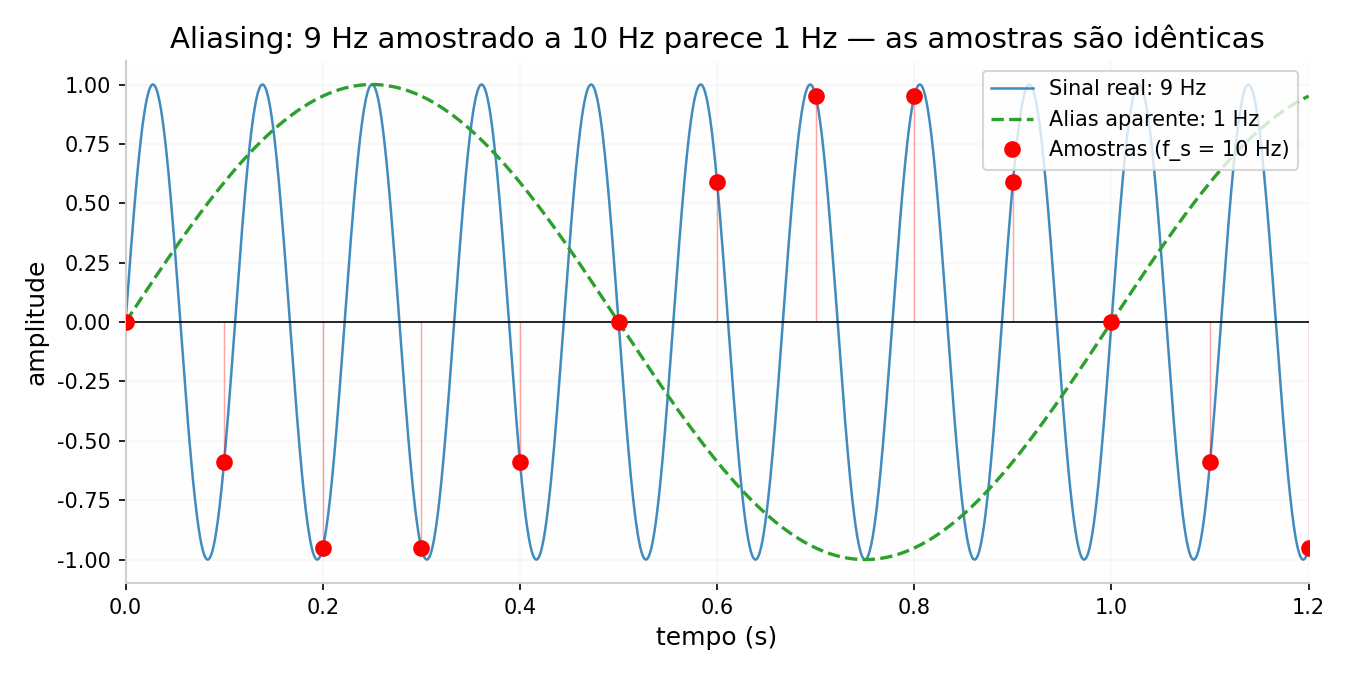
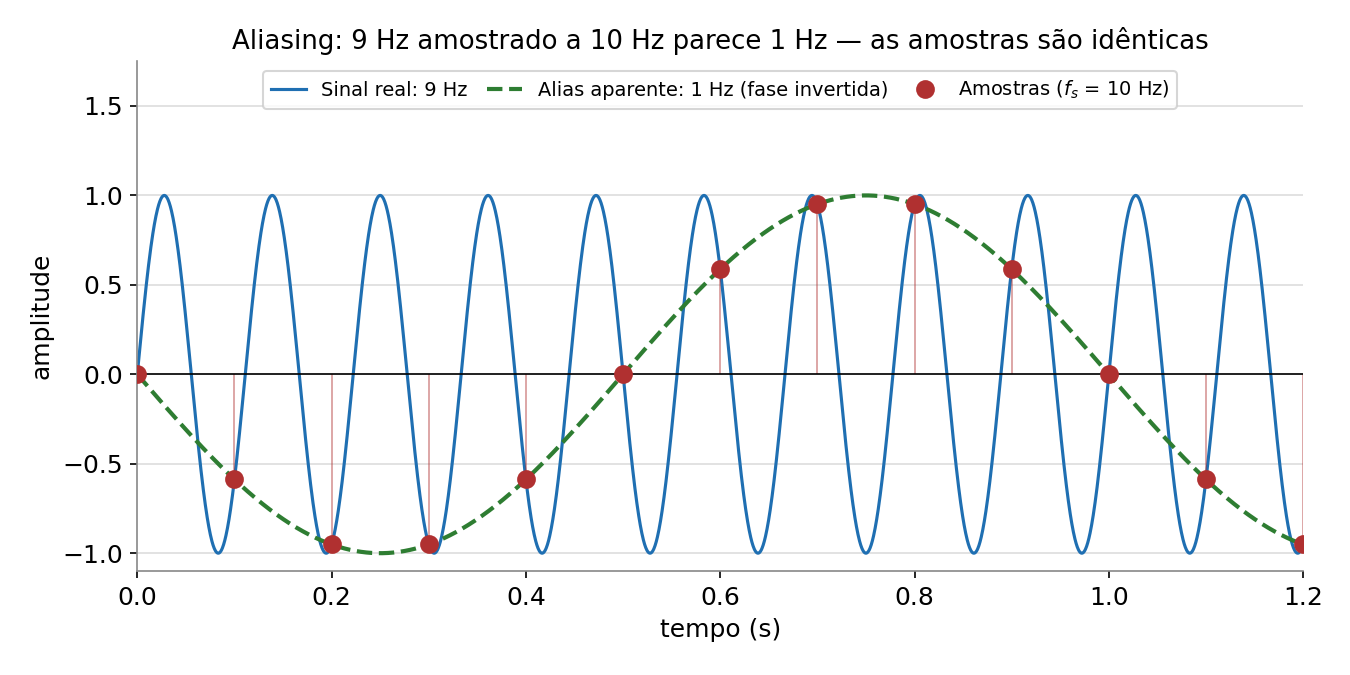
Update from https://github.com/fabiobento/sis-emb-2026-2-privado/commit/058eab5a88663f317a299e5331d251b6e1978caa

Changed region(s): [[0.0, 0.0311, 0.9956, 0.9644], [0.9333, 0.0933, 0.9644, 0.1244]]

diff --git a/semana-07/teoria-07.md b/semana-07/teoria-07.md
@@ -166,7 +166,7 @@ semicondutor da superfície serpentada — fotóns liberam portadores de carga.
 
 ![Fotografia de um LDR e seus símbolos esquemáticos](https://raw.githubusercontent.com/fabiobento/sis-emb-2026-2/main/assets/figuras/ldr_componente.png)
 
-*Figura 7-D — O LDR: componente físico e símbolos. Fonte: Practical Python Programming for
+*Figura 7-F — O LDR: componente físico e símbolos. Fonte: Practical Python Programming for
 IoT (Packt), cap. 9, Fig. 9.4.*
 
 **Exemplo resolvido 7.2 (LDR + divisor)** — LDR varia de 8 kΩ (claro) a 120 kΩ (escuro), em
@@ -192,39 +192,185 @@ lugar — e a semana 13 precisará saber qual é a sua convenção antes de fech
 
 ## 3. Amostragem: o teorema que não perdoa
 
-O ADC não enxerga o sinal contínuo: tira **fotografias** a cada ${T_s}$ segundos (taxa
-$f_s = \frac{1}{T_s}$). O **teorema de Nyquist–Shannon** diz o preço da discrição:
+Até aqui falamos de **quanto** o ADC mede (resolução: eixo vertical). Agora falamos de
+**quando** ele mede (taxa: eixo horizontal). As duas decisões são independentes — e o erro
+em qualquer uma delas é irreversível.
 
-> Para representar fielmente um sinal com componentes até $f_{max}$, é preciso amostrar a **$f_s > 2·f_{max}$**.
+### 3.1 O que é amostrar
 
-Violou? O sinal rápido demais não desaparece — ele se **disfarça** de um sinal lento,
-fenômeno chamado **aliasing** (o efeito "roda de carroça girando para trás" do cinema: a
-câmera amostra a roda 24× por segundo; se ela gira quase nessa taxa, o filme a mostra
-girando devagar... para trás). A frequência do impostor: $f_{alias} = |f_s − f_{sinal}|$ (para
-$f_{sinal}$ entre $f_s/2$ e $f_s$).
+O ADC não enxerga o sinal contínuo: ele tira **fotografias** a cada $T_s$ segundos, ou seja,
+com **taxa de amostragem** $f_s = \frac{1}{T_s}$. Entre duas fotografias, o conversor não sabe
+nada sobre o sinal; o que sobra para o firmware é uma **lista de números** igualmente
+espaçados no tempo. (Por dentro, um circuito *sample-and-hold* captura a tensão no instante
+da amostra e a "segura" estável enquanto o conversor trabalha, como no SAR da seção 1.1.)
+
+![Em cima, sinal contínuo com as amostras marcadas a cada Ts. Embaixo, a sequência de números resultante, vista como degraus segurados entre as amostras](https://raw.githubusercontent.com/fabiobento/sis-emb-2026-2/main/assets/figuras/amostragem_sample_hold.png)
+
+*Figura 7-G — Amostragem em duas etapas. Em cima: o mundo real é contínuo, mas o ADC só olha
+nos instantes marcados (a cada $T_s$ = 40 ms, ou $f_s$ = 25 Hz). Embaixo: o que o firmware
+recebe é uma sequência de números; o que acontece **entre** as amostras é informação que não
+chegou ao programa.*
+
+A pergunta natural é: *quão rápido preciso fotografar para não perder nada importante?*
+
+### 3.2 O teorema de Nyquist–Shannon
+
+O **teorema de Nyquist–Shannon** responde:
+
+> Para representar fielmente um sinal cujas componentes vão até $f_{max}$, é preciso amostrar a **$f_s > 2·f_{max}$**.
+
+Chamamos $f_s/2$ de **frequência de Nyquist**: é o teto do que o sistema consegue "enxergar".
+Três observações para não errar a leitura do teorema:
+
+- **$f_{max}$ é a maior frequência *presente* no sinal, não a que você quer medir.** Ruído,
+  harmônicos (uma onda quadrada tem harmônicos muito além da fundamental) e interferências
+  (rede elétrica, luz de LED) contam — se existem no pino, o ADC as amostra.
+- **A desigualdade é estrita.** Com $f_s = 2f$ exatos, tudo depende de *onde* as amostras
+  caem no ciclo: no pior caso, caem sobre os zeros e o sinal desaparece (painel de baixo à
+  esquerda da figura abaixo).
+- **"Fiel" supõe reconstrução ideal.** Com $f_s$ um pouco acima de $2f$ a informação *existe*
+  nas amostras, mas recuperá-la exige o interpolador ideal de Shannon (somas de funções
+  $\text{sinc}$), que não conseguimos construir. Na prática, usa-se bem mais que o mínimo
+  (regra de bolso: **5–10× a banda de interesse**).
+
+![Quatro painéis com uma senoide de 5 Hz amostrada a 50, 12, 10 e 6 Hz](https://raw.githubusercontent.com/fabiobento/sis-emb-2026-2/main/assets/figuras/amostragem_taxas.png)
+
+*Figura 7-H — A mesma senoide de 5 Hz amostrada com quatro taxas diferentes. Com 50 Hz
+(10×) e 12 Hz (2,4×) a curva reconstruída (tracejada) coincide com o original. Com 10 Hz
+(exatamente 2×), as amostras caem nos zeros e o sinal some. Com 6 Hz (1,2×), as mesmas
+poucas amostras passam a descrever, perfeitamente bem, uma senoide **lenta de 1 Hz** — que
+não existe no mundo real.*
+
+### 3.3 Aliasing: quando o sinal rápido se disfarça de lento
+
+Violou Nyquist? O sinal rápido demais não desaparece — ele se **disfarça** de um sinal lento,
+fenômeno chamado **aliasing** (*alias* = pseudônimo). É o efeito "roda de carroça girando para
+trás" do cinema: a câmera amostra a roda 24× por segundo; se ela gira quase nessa taxa, o filme
+a mostra girando devagar... e, se gira um pouco *menos* que uma volta por quadro, para trás.
+
+O impostor aparece na frequência
+
+$$ f_{alias} = \left| f_{sinal} - k\,f_s \right|, \qquad k = \text{inteiro mais próximo de } f_{sinal}/f_s $$
+
+que, para $f_s/2 < f_{sinal} < f_s$ (o caso mais comum), simplifica para
+$f_{alias} = f_s - f_{sinal}$. Note que o alias é **sempre** uma frequência entre $0$ e $f_s/2$:
+qualquer frequência acima do teto de Nyquist é "dobrada" de volta para dentro da faixa.
 
 ![Sinal de 9 Hz amostrado a 10 Hz produzindo um alias de 1 Hz](https://raw.githubusercontent.com/fabiobento/sis-emb-2026-2/main/assets/figuras/aliasing_nyquist.png)
 
-*Figura 7-E — Aliasing: as amostras (bolas vermelhas) do sinal de 9 Hz colhidas a 10 Hz são
-**idênticas** às de um sinal de 1 Hz. Depois de amostrado, não há como distinguir o
-verdadeiro do impostor.*
+*Figura 7-I — Aliasing: as amostras (bolas vermelhas) do sinal de 9 Hz colhidas a 10 Hz são
+**idênticas** às de um sinal de 1 Hz. Repare que o impostor tem a **fase invertida** (a
+senoide verde começa descendo): é a "roda girando para trás". Depois de amostrado, não há
+como distinguir o verdadeiro do impostor.*
 
-**Exemplo resolvido 7.3 (aliasing)** — Senoide de $600 Hz$ amostrada a $f_s = 1 kHz$. O que o
+Para visualizar *para onde* cada frequência vai, imagine o eixo de frequências dobrado como um
+leque (ou como uma fita colada em ziguezague): a cada múltiplo de $f_s/2$ a fita reflete.
+
+![Esquerda: frequência aparente em função da frequência real, uma onda triangular que sobe até fs/2, desce até fs e se repete. Direita: o exemplo de 600 Hz amostrado a 1 kHz refletindo em 500 Hz e aparecendo em 400 Hz](https://raw.githubusercontent.com/fabiobento/sis-emb-2026-2/main/assets/figuras/aliasing_dobra.png)
+
+*Figura 7-J — Esquerda: a "dobra" (com $f_s$ = 10 Hz). Só até $f_s/2$ a frequência vista é a
+real; acima disso, a curva volta a descer — 6 Hz aparece como 4 Hz, 9 Hz como 1 Hz, 11 Hz também
+como 1 Hz, e assim indefinidamente. Direita: o Exemplo 7.3 no eixo de frequências — o
+espelho fica em $f_s/2$, e o impostor surge à mesma distância dele, do lado de dentro.*
+
+**Exemplo resolvido 7.3 (aliasing)** — Senoide de 600 Hz amostrada a $f_s = 1$ kHz. O que o
 sistema registra?
 
-*Solução.* A taxa exigida seria $f_s > 2 × 600 = 1,2 kHz$ — violada. As amostras são
-**indistinguíveis** das de uma senoide de |1000 − 600| = **400 Hz**. Pior: nenhum
-processamento posterior desfaz o disfarce — depois de amostrado, o alias é matematicamente
-idêntico a um sinal legítimo de 400 Hz. Por isso a defesa é **antes** do ADC: filtro
-*anti-aliasing* analógico (um RC passa-baixas já ajuda) e/ou $f_s$ com folga (regra prática:
-5–10× a banda de interesse, não o mínimo teórico — o teorema assume filtros ideais que não
-existem).
+*Solução.* A taxa exigida seria $f_s > 2 × 600 = 1{,}2$ kHz — violada (a frequência de Nyquist
+é 500 Hz, e 600 Hz está acima). As amostras são **indistinguíveis** das de uma senoide de
+|1000 − 600| = **400 Hz**. Pior: nenhum processamento posterior desfaz o disfarce — depois de
+amostrado, o alias é matematicamente idêntico a um sinal legítimo de 400 Hz.
 
-E uma condição escondida no teorema: as fotografias devem ser **igualmente espaçadas**.
-Período irregular (jitter) distorce o espectro tanto quanto $f_s$ baixa — é *por isso* que o
-firmware de hoje amostra com `vTaskDelayUntil` (Exemplo 5.1) e é por isso que a malha PID da
-semana 13 rodará no ESP32 e não no RPi (o Linux do Pi tem jitter de milissegundos; isso afeta a malha
-de controle).
+Uma tabelinha ajuda a "sentir" a dobra neste mesmo $f_s = 1$ kHz:
+
+| $f_{sinal}$ | 100 Hz | 400 Hz | 500 Hz | 600 Hz | 900 Hz | 1000 Hz | 1100 Hz |
+|---|---|---|---|---|---|---|---|
+| $f_{alias}$ visto | 100 | 400 | *limite* | **400** | **100** | **0** (CC!) | **100** |
+
+Note o caso de 1000 Hz: uma senoide com frequência igual a $f_s$ é amostrada sempre no mesmo
+ponto do ciclo e vira um **valor constante** — um "nível CC" que não existe.
+
+**Exemplo resolvido 7.3b (a luz da sala no seu LDR)** — No Lab 7 o LDR é lido a $f_s = 20$ Hz,
+e lâmpadas de LED/fluorescentes eletrônicas piscam a 100 ou 120 Hz (o dobro da frequência da
+rede). O que o ESP32 enxerga?
+
+*Solução.* A frequência de Nyquist é 20/2 = 10 Hz; 120 Hz está *muito* acima. Como
+120 = 6 × 20 e 100 = 5 × 20 são múltiplos exatos de $f_s$, o alias cai em
+|120 − 6·20| = |100 − 5·20| = **0 Hz**: o cintilar rápido vira um **nível constante** somado à
+leitura. Se a luz piscar um pouquinho fora do múltiplo (por exemplo, 120,3 Hz), o alias será
+0,3 Hz: uma "respiração" lenta e fantasma na leitura — que ninguém gerou, e que nenhuma média
+móvel de poucas amostras consegue remover (é lenta demais). É exatamente a linha da tabela de
+problemas do roteiro: *"desvio alto com LDR parado — luz fluorescente/LED da sala"*.
+
+### 3.4 A defesa: filtro anti-aliasing
+
+Como o alias é indistinguível de um sinal verdadeiro, **a defesa precisa vir antes do ADC**,
+no mundo analógico: um filtro **passa-baixas** que derruba tudo acima de $f_s/2$ *antes* que
+a amostragem aconteça. O mais simples é um RC (um resistor em série e um capacitor para o
+terra), com frequência de corte
+
+$$ f_c = \frac{1}{2\pi R C} $$
+
+![Em cima, diagrama de blocos sensor, filtro RC, ADC e código. Embaixo, resposta em frequência do RC com as atenuações em fs/2 para fs de 1 kHz e de 5 kHz](https://raw.githubusercontent.com/fabiobento/sis-emb-2026-2/main/assets/figuras/antialiasing_filtro_rc.png)
+
+*Figura 7-K — Em cima: o filtro fica entre o sensor e o pino do ADC. Embaixo: um RC de
+1ª ordem (R = 10 kΩ, C = 100 nF, $f_c$ ≈ 159 Hz) deixa passar quase intacto o sinal útil
+(−1,4 dB em 100 Hz), mas atenua só −10,4 dB em 500 Hz e −23,9 dB em 2,5 kHz: o filtro não é
+uma "parede", é uma **rampa** de −20 dB por década.*
+
+O detalhe que muita gente esquece: o RC **não** é uma parede. Seu ganho cai suavemente
+($-20$ dB por década) e, em $f_s/2$, ainda deixa passar uma fração relevante do que deveria
+ter barrado. Por isso a regra prática tem *duas* partes:
+
+1. um filtro analógico simples antes do pino; **e**
+2. $f_s$ com folga (5–10× a banda de interesse), para empurrar $f_s/2$ para longe de $f_c$,
+   onde o filtro já atenua bastante. Cada vez que você dobra $f_s$, ganha ~6 dB a mais de
+   barreira no mesmo RC.
+
+**Exemplo resolvido 7.3c (dimensionando o RC)** — Sensor com informação útil até 100 Hz,
+$f_s = 1$ kHz, e uma interferência de 600 Hz no pino. Com R = 10 kΩ e C = 100 nF, quanto da
+interferência chega ao ADC?
+
+*Solução.* $f_c = 1/(2\pi \cdot 10^4 \cdot 10^{-7}) \approx 159$ Hz. O ganho de um RC de 1ª
+ordem é $|H| = 1/\sqrt{1 + (f/f_c)^2}$:
+
+- em 100 Hz (sinal útil): $|H| = 0{,}85$ → **−1,4 dB** (perda de ~15% na amplitude, aceitável);
+- em 600 Hz (interferência): $|H| = 1/\sqrt{1 + 3{,}77^2} \approx 0{,}26$ → **−11,8 dB**.
+
+Ou seja, a interferência ainda chega com **26%** da amplitude original e aparecerá como um
+alias de |1000 − 600| = 400 Hz, só que menor. Para barrá-la de verdade: subir $f_s$ (com
+$f_s$ = 5 kHz, 600 Hz fica *abaixo* de Nyquist e deixa de ser alias — vira um sinal legítimo,
+que a média móvel ou outro filtro digital da seção 4 pode tratar) e/ou usar um filtro de
+ordem maior.
+
+> **Detalhe de bancada.** O pino do ESP32 tem um capacitor de amostragem interno que precisa
+> recarregar a cada leitura; resistores muito grandes na entrada (dezenas de kΩ) deixam essa
+> recarga lenta e causam erro de leitura. Ficar na faixa de alguns kΩ, com o capacitor de filtro
+> ao lado do pino (que funciona como reservatório de carga), é uma boa partida.
+
+### 3.5 A condição escondida: amostras igualmente espaçadas
+
+O teorema tem uma condição tácita: as fotografias devem ser **igualmente espaçadas**. Se o
+instante real de cada amostra erra por $\Delta t$ (**jitter**), o programa acredita ter lido o
+sinal em $kT_s$, mas leu em $kT_s + \Delta t$: o erro de amplitude é aproximadamente a
+inclinação do sinal vezes $\Delta t$, no máximo
+
+$$ \varepsilon_{max} \approx 2\pi\,f\,A\,\Delta t $$
+
+![Em cima, senoide de 25 Hz com as amostras ideais e as amostras com jitter de ±1,5 ms ligadas por segmentos. Embaixo, erro de cada amostra limitado por duas linhas tracejadas em ±0,24 A](https://raw.githubusercontent.com/fabiobento/sis-emb-2026-2/main/assets/figuras/amostragem_jitter.png)
+
+*Figura 7-L — Jitter distorce o sinal mesmo com $f_s$ bem acima de Nyquist (200 Hz para um
+sinal de 25 Hz). Cada amostra vermelha foi lida um pouco antes ou depois do instante
+previsto (círculo vazio); o erro (embaixo) é maior onde o sinal é mais inclinado e fica
+dentro do limite 2π·f·A·Δt.*
+
+Quanto mais rápido o sinal e maior o desvio, pior: um sinal de 50 Hz amostrado com jitter de
+2 ms (típico de uma tarefa em Linux disputando CPU) já erra até 2π·50·0,002 ≈ **63% da
+amplitude**. Já uma tarefa FreeRTOS de prioridade adequada e disparada por `vTaskDelayUntil`
+tem jitter bem menor que 1 ms (tipicamente dezenas de µs). É *por isso* que o firmware de hoje
+amostra com `vTaskDelayUntil` (Exemplo 5.1), e é por isso que a malha PID da semana 13 rodará
+no ESP32 e não no RPi (o Linux do Pi tem jitter de milissegundos; isso afeta a malha de
+controle).
 
 ## 4. O primeiro filtro digital: média móvel
 
@@ -269,7 +415,7 @@ correspondente (é o ADC de trás para frente — compare a figura abaixo com a 
 
 ![Função de transferência de um DAC de 3 bits](https://raw.githubusercontent.com/fabiobento/sis-emb-2026-2/main/assets/figuras/dac_3bits.png)
 
-*Figura 7-F — DAC de 3 bits: a cada código, uma tensão degrau. Fonte: Hands-On Industrial
+*Figura 7-M — DAC de 3 bits: a cada código, uma tensão degrau. Fonte: Hands-On Industrial
 Internet of Things (Packt), cap. 3, Fig. 3.4.*
 
 O ESP32 tem 2 canais de **8 bits** (GPIO25/26): 256 degraus de 3,3/256 ≈ 13 mV. Serve para
@@ -306,7 +452,8 @@ impede fantasmas na entrada, o outro limpa degraus na saída).
 - Sensor resistivo → divisor de tensão; excursão máxima com R_fixo ≈ média geométrica dos
   extremos (Exemplo 7.2); sem R_fixo, resistência não vira tensão.
 - Nyquist: f_s > 2·f_max, **com espaçamento uniforme**; violou ⇒ alias em |f_s − f| que
-  nenhum filtro digital remove depois (Exemplo 7.3) — anti-aliasing é analógico e vem antes.
+  nenhum filtro digital remove depois (Exemplos 7.3, 7.3b) — anti-aliasing é analógico e vem
+  antes, e um RC sozinho é uma rampa (−20 dB/década), não uma parede (Exemplo 7.3c).
 - Média móvel O(1) com soma corrente + buffer circular: atenua ruído contínuo, atrasa
   (M−1)/2 amostras; spikes pedem mediana (Exemplo 7.4). Filtro = compromisso com atraso.
 - DAC 8 bits por tabela: f = taxa/pontos; poucos pontos por ciclo = escada + harmônicos;
@@ -328,6 +475,7 @@ impede fantasmas na entrada, o outro limpa degraus na saída).
 | SAR | ADC de aproximações sucessivas (busca binária em hardware) |
 | saturação | leitura travada no fim de escala |
 | divisor de tensão | dois resistores em série que fatiam a fonte |
+| frequência de Nyquist | $f_s/2$: teto do que o sistema enxerga |
 | aliasing | disfarce de frequência por subamostragem |
 | anti-aliasing | filtro analógico antes do ADC |
 | média móvel | média das últimas M amostras |
